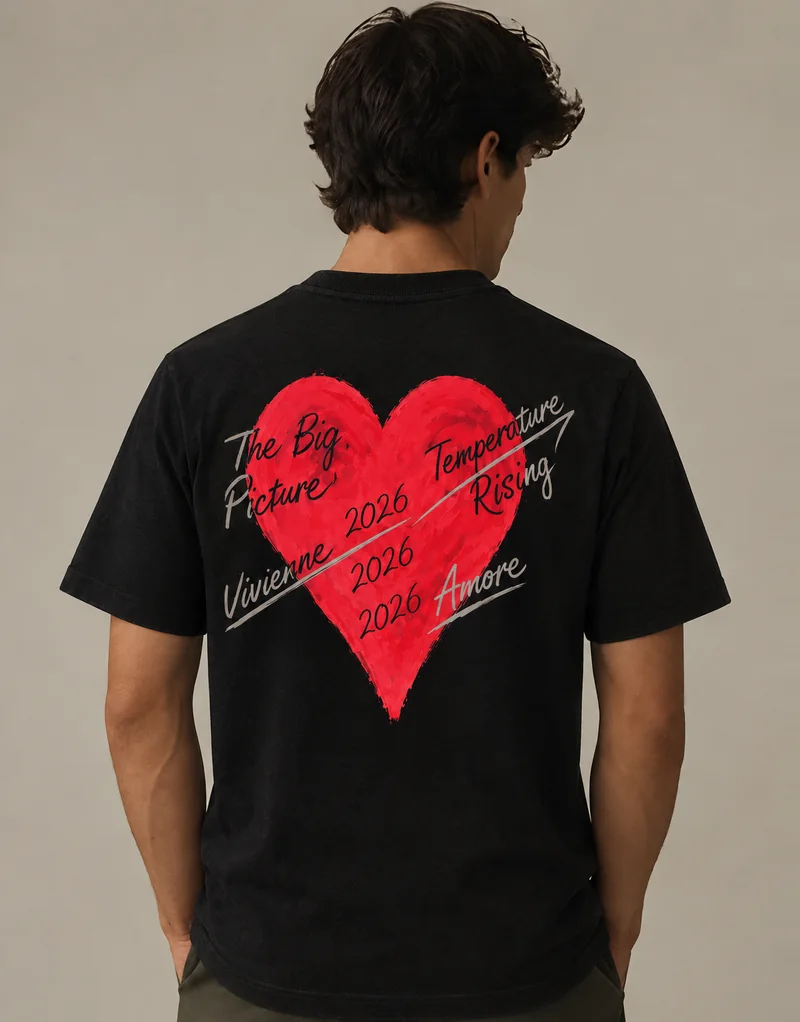
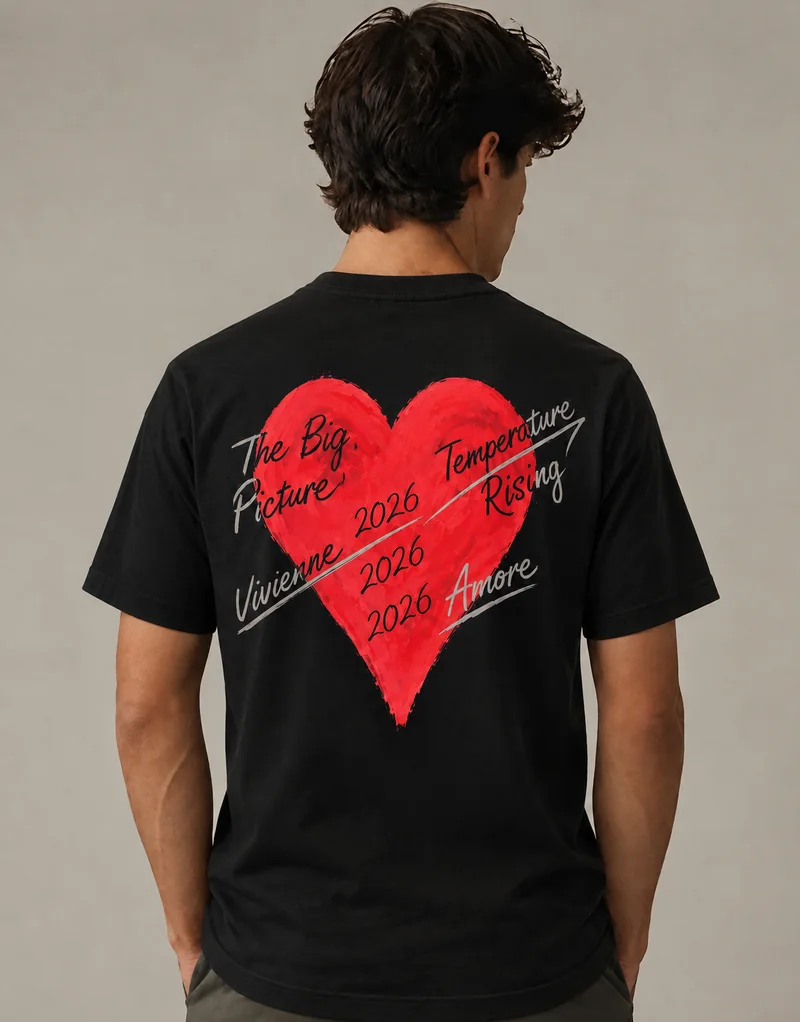
Provador: caimento regular de verdade e provas sem limite para o dono
- Pedido à IA: manga curta, estreita e rente ao braço, e malha leve de 180 g/m² que
  cai acompanhando o corpo (o resultado ainda saía com cara de oversized).
- Fotos do modelo refeitas no P, o tamanho dele, a partir de uma foto em que ele já
  veste uma camiseta regular (partindo da camiseta larga original, a IA herdava o
  caimento largo).
- Sem limite de provas para o Breno (conta Google, guardada como hash do e-mail) e
  para o servidor de teste local; os outros seguem com 5 a cada 10 min e 100 por dia.

diff --git a/src/lib/fit-description.ts b/src/lib/fit-description.ts
@@ -8,8 +8,9 @@ const SIZES = ["P", "M", "G"];
 // same regular tee (before, mockups of an older dropped-shoulder cut the model had to be told to ignore).
 // The proportions are measured on those photos (seen from the back, all five alike): body width 0.56-0.60 of the
 // length from collar to hem, sleeves ending at 0.44-0.50 of it. On a person the image model kept the silhouette of the
-// shirt they had on (a loose tee came out with dropped shoulders and elbow-length sleeves), hence the numbers.
-export const CORTE_REGULAR = "MODELAGEM DA PEÇA: camiseta REGULAR, de corte clássico e reto (NÃO é oversized, NÃO é boxy, NÃO tem ombro caído). As fotos de referência mostram esta mesma peça, nesse corte: siga delas o formato da camiseta (gola, ombro, mangas e corpo), além da cor, da estampa, da assinatura e do tecido. PROPORÇÕES DA PEÇA, as mesmas das fotos de referência: a costura do ombro fica na ponta do ombro da pessoa (num tamanho grande para ela, no máximo poucos centímetros além), nunca no ombro caído de uma camiseta oversized; as mangas são curtas e retas, cobrem só a metade de cima do braço e terminam bem acima do cotovelo, com a abertura a poucos centímetros do braço (nada de manga larga, comprida ou em sino); o corpo cai reto e é mais comprido do que largo: de costas, a largura da camiseta é pouco mais da metade do comprimento dela (cerca de 0,58 vez a distância da gola até a barra; uma camiseta quase tão larga quanto comprida está ERRADA). As laterais descem retas, só um pouco afastadas do tronco, sem volume sobrando, e abaixo das mangas os braços aparecem ao lado do corpo, com o tecido sem cobri-los.";
+// shirt they had on (a loose tee came out with dropped shoulders and elbow-length sleeves), hence the numbers; the
+// sleeves still came out wide and long and the fabric stiff, hence the sleeve width and the 180 g/m² drape.
+export const CORTE_REGULAR = "MODELAGEM DA PEÇA: camiseta REGULAR, de corte clássico e reto (NÃO é oversized, NÃO é boxy, NÃO tem ombro caído). As fotos de referência mostram esta mesma peça, nesse corte: siga delas o formato da camiseta (gola, ombro, mangas e corpo), além da cor, da estampa, da assinatura e do tecido. PROPORÇÕES DA PEÇA, as mesmas das fotos de referência: a costura do ombro fica na ponta do ombro da pessoa (num tamanho grande para ela, no máximo poucos centímetros além), nunca no ombro caído de uma camiseta oversized; as mangas são CURTAS e ESTREITAS: saem da ponta do ombro e terminam na metade do braço, cerca de um palmo acima do cotovelo (cobrem o ombro e só a metade de cima do bíceps), com a abertura quase rente ao braço, no máximo 2 ou 3 cm de folga (nada de manga larga, comprida, em sino ou afastada do braço); o corpo cai reto e é mais comprido do que largo: de costas, a largura da camiseta é pouco mais da metade do comprimento dela (cerca de 0,58 vez a distância da gola até a barra; uma camiseta quase tão larga quanto comprida está ERRADA). As laterais descem retas, só um pouco afastadas do tronco, sem volume sobrando, e abaixo das mangas os braços aparecem ao lado do corpo, com o tecido sem cobri-los. A malha é de algodão LEVE (180 g/m²) e macia: acompanha o ombro e o corpo e cai mole, com dobras suaves, em vez de ficar armada e quadrada como uma camiseta pesada oversized.";
 
 // Without measurements, how each size sits next to the brand's usual regular fit (M on an average body).
 const RELATIVE: Record<number, string> = {

diff --git a/src/app/api/generate/route.ts b/src/app/api/generate/route.ts
@@ -1,10 +1,13 @@
+import { createHash } from "node:crypto";
 import { NextResponse } from "next/server";
 import { z } from "zod";
 import { detectPose, POSE_LABELS, type Pose } from "@/lib/pose";
 import { getProvadorProduct as getProduct, getSizeChart, TAMANHOS_LOJA } from "@/lib/products";
 import { EMPTY_PROFILE, type BodyProfile } from "@/lib/body-measure";
 import { describeFit } from "@/lib/fit-description";
+import { viaGoogle } from "@/lib/owners";
 import { clientKey, createRateLimiter } from "@/lib/rate-limit";
+import { createClient } from "@/lib/supabase/server";
 import { planTryOn, type ViewKey } from "@/lib/tryon";
 
 const IMAGE_MODEL = "openai/gpt-image-2.5-flare";
@@ -20,6 +23,25 @@ function isOverDailyLimit() {
   if (daily.count >= DAILY_LIMIT) return true;
   daily.count += 1;
   return false;
+}
+
+// Who tries on with no limits (owner's request, 2026-11-23, while the try-on is being tuned): the owner Breno, signed in
+// with Google (a password account with his address never counts), kept here as the SHA-256 of the e-mail so the address
+// isn't in the code; and the local dev server, where Claude runs its tests. Everyone else keeps both limits.
[1 lines of base64/hex data omitted]
+
+async function semLimite() {
+  if (process.env.NODE_ENV === "development") return true;
+  try {
+    const supabase = await createClient();
+    const { data: { user } } = await supabase.auth.getUser();
+    if (!user?.email || !user.email_confirmed_at) return false;
+    if (!SEM_LIMITE.has(createHash("sha256").update(user.email.trim().toLowerCase()).digest("hex"))) return false;
+    const { data } = await supabase.auth.getClaims();
+    return viaGoogle(data?.claims.amr);
+  } catch {
+    return false;
+  }
 }
 
 const generateSchema = z.object({
@@ -57,7 +79,8 @@ async function loadGarmentImage(origin: string, path: string) {
 }
 
 export async function POST(request: Request) {
-  if (isRateLimited(clientKey(request))) {
+  const livre = await semLimite();
+  if (!livre && isRateLimited(clientKey(request))) {
     return NextResponse.json({ error: "Limite de gerações atingido. Aguarde alguns minutos e tente novamente." }, { status: 429 });
   }
 
@@ -83,7 +106,7 @@ export async function POST(request: Request) {
   if (!product) {
     return NextResponse.json({ error: "Camisa não encontrada." }, { status: 404 });
   }
-  if (isOverDailyLimit()) {
+  if (!livre && isOverDailyLimit()) {
     return NextResponse.json({ error: "O provador atingiu o limite de uso de hoje. Tente novamente amanhã." }, { status: 429 });
   }
 

diff --git a/PENDENCIAS-LEIA-ME.md b/PENDENCIAS-LEIA-ME.md
@@ -81,7 +81,8 @@ Sem os itens 3 e 4 o site funciona assim mesmo: o frete aparece como "valores de
 - **Categorias virou Coleções** (`/colecoes`; o endereço antigo redireciona). No menu: Coleções, Meranno Fit e Sobre nós, nessa ordem.
 - **Voltar para a página inicial**: no topo do menu (fora da inicial) e, no celular, uma seta discreta "Voltar para o início" logo abaixo da barra (a barra do celular não tem espaço para mais um botão).
 - **Cadeado** (Coming soon, pré-venda e a abertura do convite): bordô forte e liso (`#39000F`, sem a textura e a luz que apagavam a cor), dourado mais vivo no cadeado, no botão e no nome, texto do botão em bordô quase preto, e as barras do Safari na mesma cor.
-- **Provador** (noite): o modelo do lookbook foi vestido com as cinco camisetas pelo próprio provador do site (cerca de US$ 0,23 no OpenRouter, contando uma geração que se perdeu na conexão) e alinhado à foto original. No passo 3 do topo, metade original e metade Amore Black; no "o seu resultado aparece aqui", as cinco passam uma a uma com o nome, ou fica a que a pessoa escolheu. O passo 2 continua com a foto original. O pedido à IA deixou de chamar as fotos de referência de "mockups com ombro caído": agora diz que são a própria peça regular, com as proporções medidas nas fotos oficiais (ombro na ponta do ombro, manga curta e reta, largura de costas pouco mais da metade do comprimento) e o tamanho e a posição de cada estampa de costas (`printScale` em `src/lib/products.ts`). Também manda descartar o contorno da roupa que a pessoa veste na foto, que antes "vazava" para o resultado (uma camiseta larga virava ombro caído). O tamanho segue a tabela da Remix (P 50/70, M 53/73, G 56/76 cm de tórax/comprimento; conferida no site da Remix em 23/11). As fotos do modelo no provador foram refeitas com esse pedido, no M.
+- **Provador** (noite): o modelo do lookbook foi vestido com as cinco camisetas pelo próprio provador do site (cerca de US$ 0,23 no OpenRouter, contando uma geração que se perdeu na conexão) e alinhado à foto original. No passo 3 do topo, metade original e metade Amore Black; no "o seu resultado aparece aqui", as cinco passam uma a uma com o nome, ou fica a que a pessoa escolheu. O passo 2 continua com a foto original. O pedido à IA deixou de chamar as fotos de referência de "mockups com ombro caído": agora diz que são a própria peça regular, com as proporções medidas nas fotos oficiais (ombro na ponta do ombro, manga curta, estreita e rente ao braço, largura de costas pouco mais da metade do comprimento, malha leve de 180 g/m² que cai acompanhando o corpo) e o tamanho e a posição de cada estampa de costas (`printScale` em `src/lib/products.ts`). Também manda descartar o contorno da roupa que a pessoa veste na foto, que antes "vazava" para o resultado (uma camiseta larga virava ombro caído). O tamanho segue a tabela da Remix (P 50/70, M 53/73, G 56/76 cm de tórax/comprimento; conferida no site da Remix em 23/11). As fotos do modelo no provador foram refeitas com esse pedido no P, que é o tamanho dele (é magro; no M a camiseta fica folgada nele, como ficaria na vida real), e em duas etapas: primeiro ele vestido com a Riviera e, a partir dessa foto já com camiseta regular, as outras (partindo da camiseta larga original, a IA ainda deixava um caimento de oversized).
+- **Provas sem limite** (24/11): o Breno, entrando no site com a conta Google dele, e o servidor de teste local (o Claude) não têm limite de provas. Todo o resto continua com 5 provas a cada 10 minutos e 100 por dia (`src/app/api/generate/route.ts`).
 
 **Falta (com vocês):**
 | Item | O que preciso |
